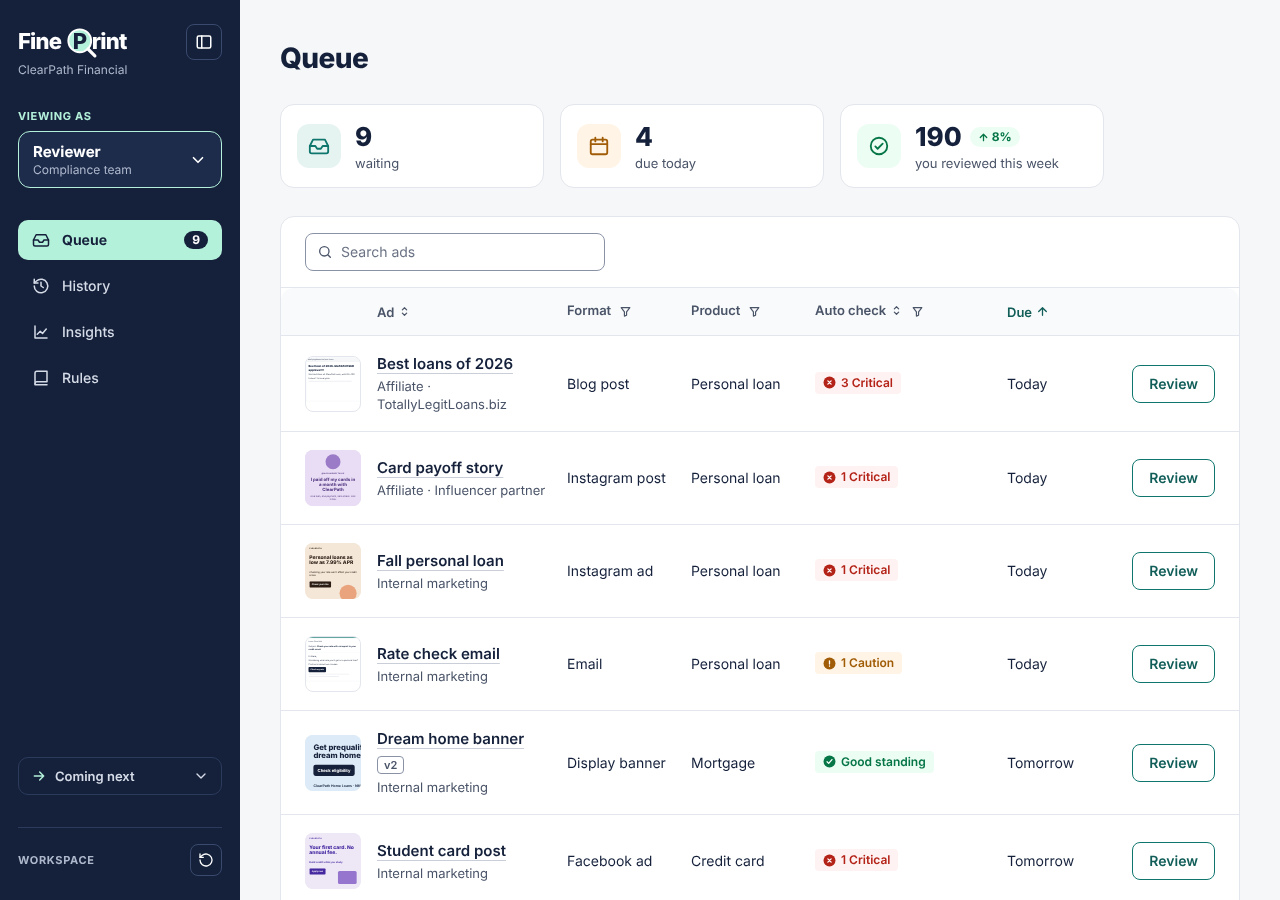
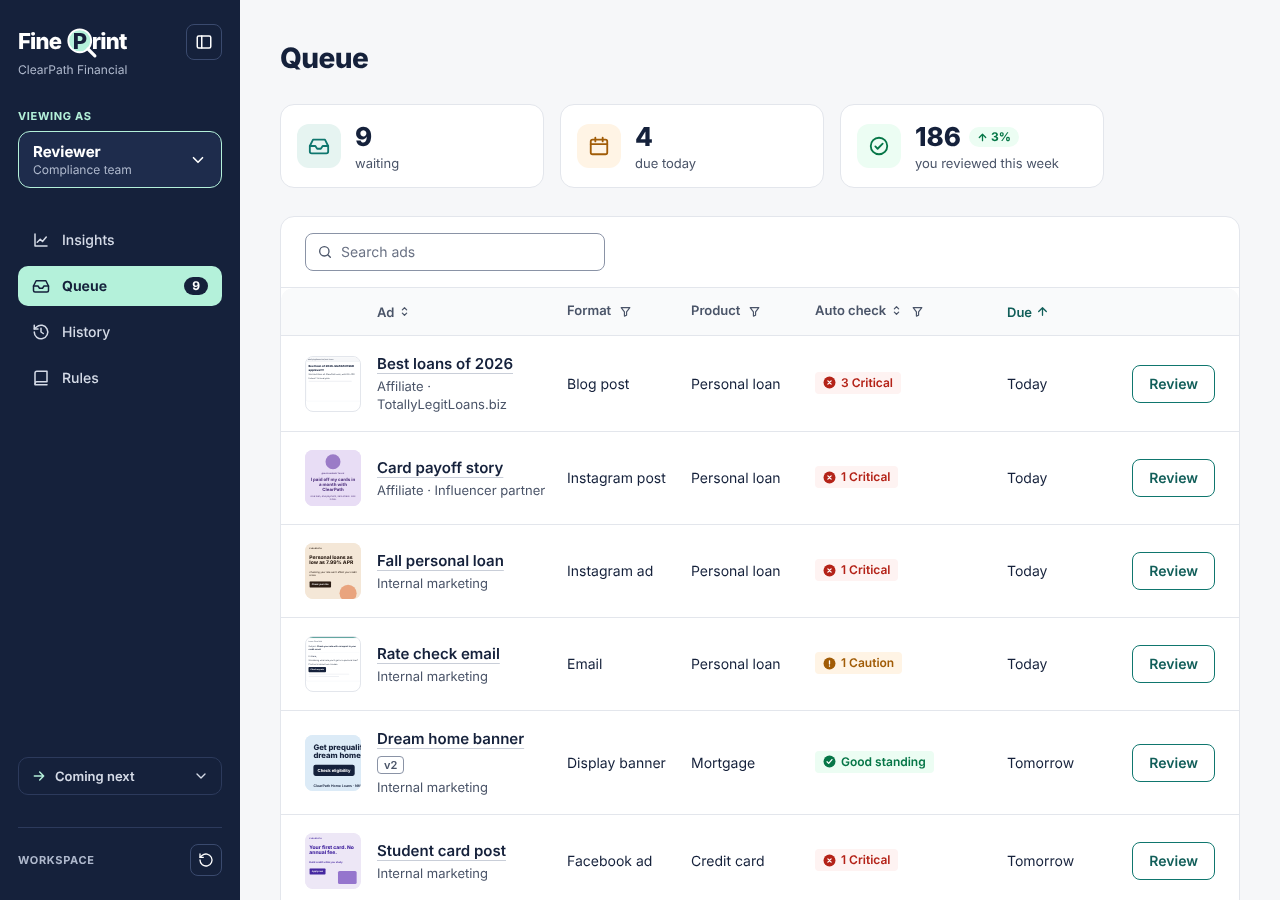
Insights: a headline, bolder numbers, and the Reviewer's home
A headline band ("6× more ads approved every week", computed) with
Open the Queue. Cards: More ads approved per week, Time saved per ad,
Review efficiency (rounds before / now) and Right the first time, at
40px. The Reviewer now lands on Insights, first in the nav.

Claude-Session: https://claude.ai/code/session_01GajTyz92bBm6dN9cgoMqN2

Changed region(s): [[0.0, 0.2178, 0.1875, 0.3733], [0.7188, 0.1244, 0.75, 0.1556]]

diff --git a/src/pages/InsightsPage.tsx b/src/pages/InsightsPage.tsx
@@ -1,5 +1,7 @@
 import { Skeleton } from 'antd'
 import { Link } from 'react-router-dom'
+import { useWorkspace } from '../app/workspace'
+import { Icon } from '../components/Icon'
 import { TrendBadge } from '../components/StatCards'
 import { SeverityTag } from '../components/StatusTag'
 import type { Trend } from '../lib/types'
@@ -16,6 +18,7 @@ interface Metric {
 }
 
 interface Insights {
+  hero: { headline: string; lines: string[] } | null
   metrics: Metric[]
   issues: Array<{ rule_id: string; name: string; share: number }>
   affiliates: Array<{ source: string; score: number; ads: number; status: 'good' | 'watch' | 'at_risk' }>
@@ -56,7 +59,7 @@ function MetricCard({ metric }: { metric: Metric }) {
     <section className="fp-card" aria-label={metric.label} style={{ padding: '24px 22px 22px', display: 'flex', flexDirection: 'column', gap: 8, minWidth: 0 }}>
       <h2 style={{ margin: 0, fontSize: 13, lineHeight: '18px', fontWeight: 600, color: '#4A5468' }}>{metric.label}</h2>
       <div style={{ display: 'flex', alignItems: 'center', flexWrap: 'wrap', gap: 10 }}>
-        <span data-insight={metric.key} style={{ fontSize: 32, lineHeight: '40px', fontWeight: 800, letterSpacing: '-0.02em' }}>
+        <span data-insight={metric.key} style={{ fontSize: 40, lineHeight: '48px', fontWeight: 800, letterSpacing: '-0.02em' }}>
           {metric.display}
         </span>
         {metric.trend && <TrendBadge trend={metric.trend} />}
@@ -69,8 +72,44 @@ function MetricCard({ metric }: { metric: Metric }) {
   )
 }
 
+/** The headline: the throughput story in one line, and the way into today's work. */
+function Hero({ hero, pending }: { hero: NonNullable<Insights['hero']>; pending: number | null }) {
+  return (
+    <section
+      aria-labelledby="insights-hero"
+      style={{
+        background: '#E6F4F1',
+        borderLeft: '4px solid #0F766E',
+        borderRadius: 12,
+        padding: '28px 32px',
+        display: 'flex',
+        flexWrap: 'wrap',
+        alignItems: 'flex-end',
+        justifyContent: 'space-between',
+        gap: 24,
+      }}
+    >
+      <div style={{ display: 'flex', flexDirection: 'column', gap: 8, minWidth: 0, flex: '1 1 420px' }}>
+        <h2 id="insights-hero" style={{ margin: 0, fontSize: 44, lineHeight: '52px', fontWeight: 800, letterSpacing: '-0.025em' }}>
+          {hero.headline}
+        </h2>
+        {hero.lines.map((line) => (
+          <p key={line} style={{ margin: 0, fontSize: 17, lineHeight: '26px', color: '#15213B' }}>
+            {line}
+          </p>
+        ))}
+      </div>
+      <Link to="/queue" className="fp-hero-button">
+        Open the Queue{pending !== null ? ` · ${pending}` : ''}
+        <Icon name="arrowRight" size={18} strokeWidth={2.2} />
+      </Link>
+    </section>
+  )
+}
+
 export function InsightsPage() {
   const { data, error } = useApi<Insights>('/api/insights')
+  const { pending } = useWorkspace()
   return (
     <div style={{ display: 'flex', flexDirection: 'column', gap: 28 }}>
       <div style={{ display: 'flex', flexDirection: 'column', gap: 6 }}>
@@ -85,6 +124,7 @@ export function InsightsPage() {
         <Skeleton active paragraph={{ rows: 8 }} />
       ) : (
         <>
+          {data.hero && <Hero hero={data.hero} pending={pending} />}
           <div className="fp-insight-metrics">
             {data.metrics.map((metric) => (
               <MetricCard key={metric.key} metric={metric} />

diff --git a/e2e/home.spec.ts b/e2e/home.spec.ts
@@ -5,10 +5,12 @@ test.beforeEach(async ({ page }) => {
   await resetData(page)
 })
 
-test('home opens the reviewer queue by default', async ({ page }) => {
+test('home opens the reviewer’s Insights by default, one click from the Queue', async ({ page }) => {
   await page.goto('/')
-  await expect(page).toHaveURL(/\/queue$/)
-  await expect(page).toHaveTitle('Queue · Fine Print')
+  await expect(page).toHaveURL(/\/insights$/)
+  await expect(page).toHaveTitle('Insights · Fine Print')
+  await expect(page.getByRole('heading', { level: 2, name: /× more ads approved every week$/ })).toBeVisible()
+  await page.getByRole('link', { name: 'Open the Queue · 9' }).click()
   await expect(page.getByRole('heading', { level: 1, name: 'Queue' })).toBeVisible()
 })
 

diff --git a/e2e/tour.spec.ts b/e2e/tour.spec.ts
@@ -7,10 +7,11 @@ test.use({ viewport: { width: 1280, height: 1000 } })
 test('README tour', async ({ page }) => {
   await resetData(page)
 
-  // 1. Open Queue.
+  // 1. Land on Insights, then open the Queue.
   await setRole(page, 'reviewer')
   await page.goto('/')
-  await expect(page).toHaveURL(/\/queue$/)
+  await expect(page).toHaveURL(/\/insights$/)
+  await page.getByRole('link', { name: 'Open the Queue · 9' }).click()
   await expect(page.locator('[data-stat="waiting"] [data-stat-value]')).toHaveText('9')
 
   // 2. Review Fall personal loan.

diff --git a/src/index.css b/src/index.css
@@ -1000,3 +1000,22 @@ a.fp-pager:hover {
 .fp-stat-card:hover {
   border-color: var(--fp-primary) !important;
 }
+
+.fp-hero-button {
+  display: inline-flex;
+  align-items: center;
+  gap: 10px;
+  min-height: 48px;
+  padding: 0 22px;
+  border-radius: 10px;
+  background: var(--fp-primary);
+  color: #ffffff;
+  font-size: 16px;
+  font-weight: 700;
+  text-decoration: none;
+  white-space: nowrap;
+}
+.fp-hero-button:hover {
+  background: #115e59;
+  color: #ffffff;
+}

diff --git a/src/lib/labels.ts b/src/lib/labels.ts
@@ -16,7 +16,8 @@ export const STATUS_LABEL: Record<AdStatus, string> = {
 }
 
 export const ROLE_LABEL: Record<Role, { name: string; team: string; home: string }> = {
-  reviewer: { name: 'Reviewer', team: 'Compliance team', home: '/queue' },
+  // Insights first: the throughput story, then the Queue is one click away.
+  reviewer: { name: 'Reviewer', team: 'Compliance team', home: '/insights' },
   marketer: { name: 'Marketer', team: 'Marketing team', home: '/my-ads' },
 }
 

diff --git a/src/pages/NotFoundPage.tsx b/src/pages/NotFoundPage.tsx
@@ -8,7 +8,7 @@ export function NotFoundPage() {
     <>
       <h1 className="fp-page-title">Page not found</h1>
       <p style={{ margin: 0, fontSize: 15 }}>
-        This page doesn't exist. <Link to={ROLE_LABEL[role].home}>Go to {ROLE_LABEL[role].home === '/queue' ? 'the queue' : 'My ads'}</Link>
+        This page doesn't exist. <Link to={ROLE_LABEL[role].home}>Go to {role === 'reviewer' ? 'Insights' : 'My ads'}</Link>
       </p>
     </>
   )

diff --git a/src/app/Sidebar.tsx b/src/app/Sidebar.tsx
@@ -25,9 +25,9 @@ function navItems(role: Role, pending: number | null): NavItem[] {
     ]
   }
   return [
+    { to: '/insights', label: 'Insights', icon: 'chart' },
     { to: '/queue', label: 'Queue', icon: 'inbox', badge: pending },
     { to: '/history', label: 'History', icon: 'history' },
-    { to: '/insights', label: 'Insights', icon: 'chart' },
     { to: '/rules', label: 'Rules', icon: 'book' },
   ]
 }

diff --git a/server/repo.py b/server/repo.py
@@ -361,36 +361,47 @@ def insights(db: Db, now: datetime) -> dict:
 
     metrics = []
     base, latest = approved[0], approved[-1]
+    hero = None
+    if base:
+        times = latest / base
+        hero = {
+            "headline": f"{round(times) if times >= 3 else round(times, 1)}× more ads approved every week",
+            "lines": [f"{latest} approved this week, up from {base} before Fine Print.",
+                      "Same rules, a fraction of the back-and-forth."],
+        }
     metrics.append({
-        "key": "approved", "label": "Ads approved per week", "value": latest, "display": str(latest),
+        "key": "approved", "label": "More ads approved per week", "value": latest, "display": str(latest),
         "trend": _trend(_pct_change(latest, base), "up", "vs. before Fine Print"),
-        "note": f"{'More' if latest >= base else 'Fewer'} ads approved per week than before Fine Print ({base})",
+        "note": f"{'Up' if latest >= base else 'Down'} from {base} before Fine Print",
         "series": approved,
     })
     base_t, latest_t = turnaround[0], turnaround[-1]
     if latest_t is not None and base_t:
+        saved = round(base_t - latest_t)
         metrics.append({
-            "key": "turnaround", "label": "Submit to approval", "value": latest_t, "display": f"{latest_t}h",
+            "key": "turnaround", "label": "Time saved per ad", "value": latest_t,
+            "display": f"{saved}h faster" if saved > 0 else f"{latest_t}h",
             "trend": _trend(_pct_change(latest_t, base_t), "down", "vs. before Fine Print"),
-            "note": f"{'Faster' if latest_t <= base_t else 'Slower'} than before ({_duration(base_t)})",
+            "note": f"From {_duration(base_t)} to {latest_t} hours, submit to approval",
             "series": turnaround,
         })
     base_r, latest_r = rounds[0], rounds[-1]
-    if latest_r is not None and base_r:
+    if latest_r and base_r:
         metrics.append({
-            "key": "rounds", "label": "Rounds per ad", "value": latest_r, "display": f"{latest_r}",
-            "trend": _trend(_pct_change(latest_r, base_r), "down", "vs. before Fine Print"),
-            "note": f"{'Fewer' if latest_r <= base_r else 'More'} rounds than before (about {round(base_r)})",
+            # How many times fewer rounds an ad needs; the number already says the direction.
+            "key": "rounds", "label": "Review efficiency", "value": latest_r,
+            "display": f"{round(base_r / latest_r, 1)}×", "trend": None,
+            "note": f"Ads now clear in {latest_r} rounds, down from about {round(base_r)}",
             "series": rounds,
         })
     if first is not None and first_then is not None:
         change = first - first_then
-        note = ("Up from last month, thanks to pre-check" if change > 0
-                else "Down from last month" if change < 0 else "The same as last month")
+        movement = "up from" if change > 0 else "down from" if change < 0 else "the same as"
         metrics.append({
-            "key": "first_round", "label": "Approved in round 1", "value": first, "display": f"{first}%",
+            "key": "first_round", "label": "Right the first time", "value": first, "display": f"{first}%",
             "trend": _trend(change, "up", f"vs. {first_then}% last month", unit="pts"),
-            "note": note, "series": first_by_week,
+            "note": f"Approved in round 1, {movement} {first_then}% last month",
+            "series": first_by_week,
         })
 
     # What the auto check flags most, over the 8 weeks.
@@ -414,4 +425,4 @@ def insights(db: Db, now: datetime) -> dict:
         status = "good" if score >= 85 else "watch" if score >= 60 else "at_risk"
         affiliates.append({"source": p["source"], "score": score, "ads": p["n"], "status": status})
     affiliates.sort(key=lambda a: (a["score"], a["source"]))
-    return {"metrics": metrics, "issues": issues, "affiliates": affiliates}
+    return {"hero": hero, "metrics": metrics, "issues": issues, "affiliates": affiliates}

diff --git a/tests/server/test_stats.py b/tests/server/test_stats.py
@@ -71,11 +71,18 @@ def test_insights_tell_the_same_story_as_history(db):
     assert metrics["turnaround"]["value"] == history["turnaround"]["value"] == metrics["turnaround"]["series"][-1]
     assert metrics["first_round"]["value"] == history["first_review"]["value"]
     assert metrics["first_round"]["trend"] == history["first_review"]["trend"]
-    assert metrics["approved"]["note"].endswith(f"({metrics['approved']['series'][0]})")
-    # The throughput story: more approved, faster, fewer rounds.
-    assert metrics["approved"]["trend"]["direction"] == "up"
-    assert metrics["turnaround"]["trend"]["direction"] == "down" and "working days" in metrics["turnaround"]["note"]
-    assert metrics["rounds"]["value"] < metrics["rounds"]["series"][0]
+    base, latest = metrics["approved"]["series"][0], metrics["approved"]["series"][-1]
+    assert metrics["approved"]["note"] == f"Up from {base} before Fine Print"
+    # The headline is the same numbers, multiplied out.
+    assert insights["hero"]["headline"] == f"{round(latest / base)}× more ads approved every week"
+    assert insights["hero"]["lines"][0] == f"{latest} approved this week, up from {base} before Fine Print."
+    # Time saved is the difference between before and now; efficiency is the ratio of rounds.
+    t = metrics["turnaround"]["series"]
+    assert metrics["turnaround"]["display"] == f"{round(t[0] - t[-1])}h faster" and "working days" in metrics["turnaround"]["note"]
+    r = metrics["rounds"]["series"]
+    assert metrics["rounds"]["display"] == f"{round(r[0] / r[-1], 1)}×" and r[-1] < r[0]
+    assert [m["label"] for m in insights["metrics"]] == [
+        "More ads approved per week", "Time saved per ad", "Review efficiency", "Right the first time"]
     assert len(metrics["approved"]["series"]) == 9
     # Top issues: the most flagged rules, biggest first, as shares of all findings.
     shares = [i["share"] for i in insights["issues"]]

diff --git a/BLOCKED.md b/BLOCKED.md
@@ -49,3 +49,4 @@ The data model's `applies_to` allows products and/or "affiliate", but the 10-Add
 - **"Use this wording" is now "Swap"**, an icon and a word at the right of the suggested wording's header, after Copy, in line with Mark resolved below. It turns into "Swapped" once used.
 - **Reviewer findings can be pinned.** CLAUDE.md says reviewer findings have no click-a-spot; that still holds. But the wireframe's own hint, "Quote the words if you can.", now does something: quoted words that are on the ad pin the finding there, matched the same forgiving way as the live check's quotes (`server/quotes.py`).
 - **Insights page.** CLAUDE.md's Don't list includes "a dashboard page" and "rounds on reviewer screens". The project owner added Insights (with rounds per ad) after the brief, to show the throughput story; built from their mock-up. "You reviewed this week" now counts ads, not decisions, since an ad can be sent back several times.
+- **Insights is the Reviewer's home** (owner's call): `/` opens Insights, first in the nav, with a headline ("6× more ads approved every week") and "Open the Queue · 9". CLAUDE.md had the Queue as home. Card titles are the owner's: More ads approved per week, Time saved per ad, Review efficiency, Right the first time.
